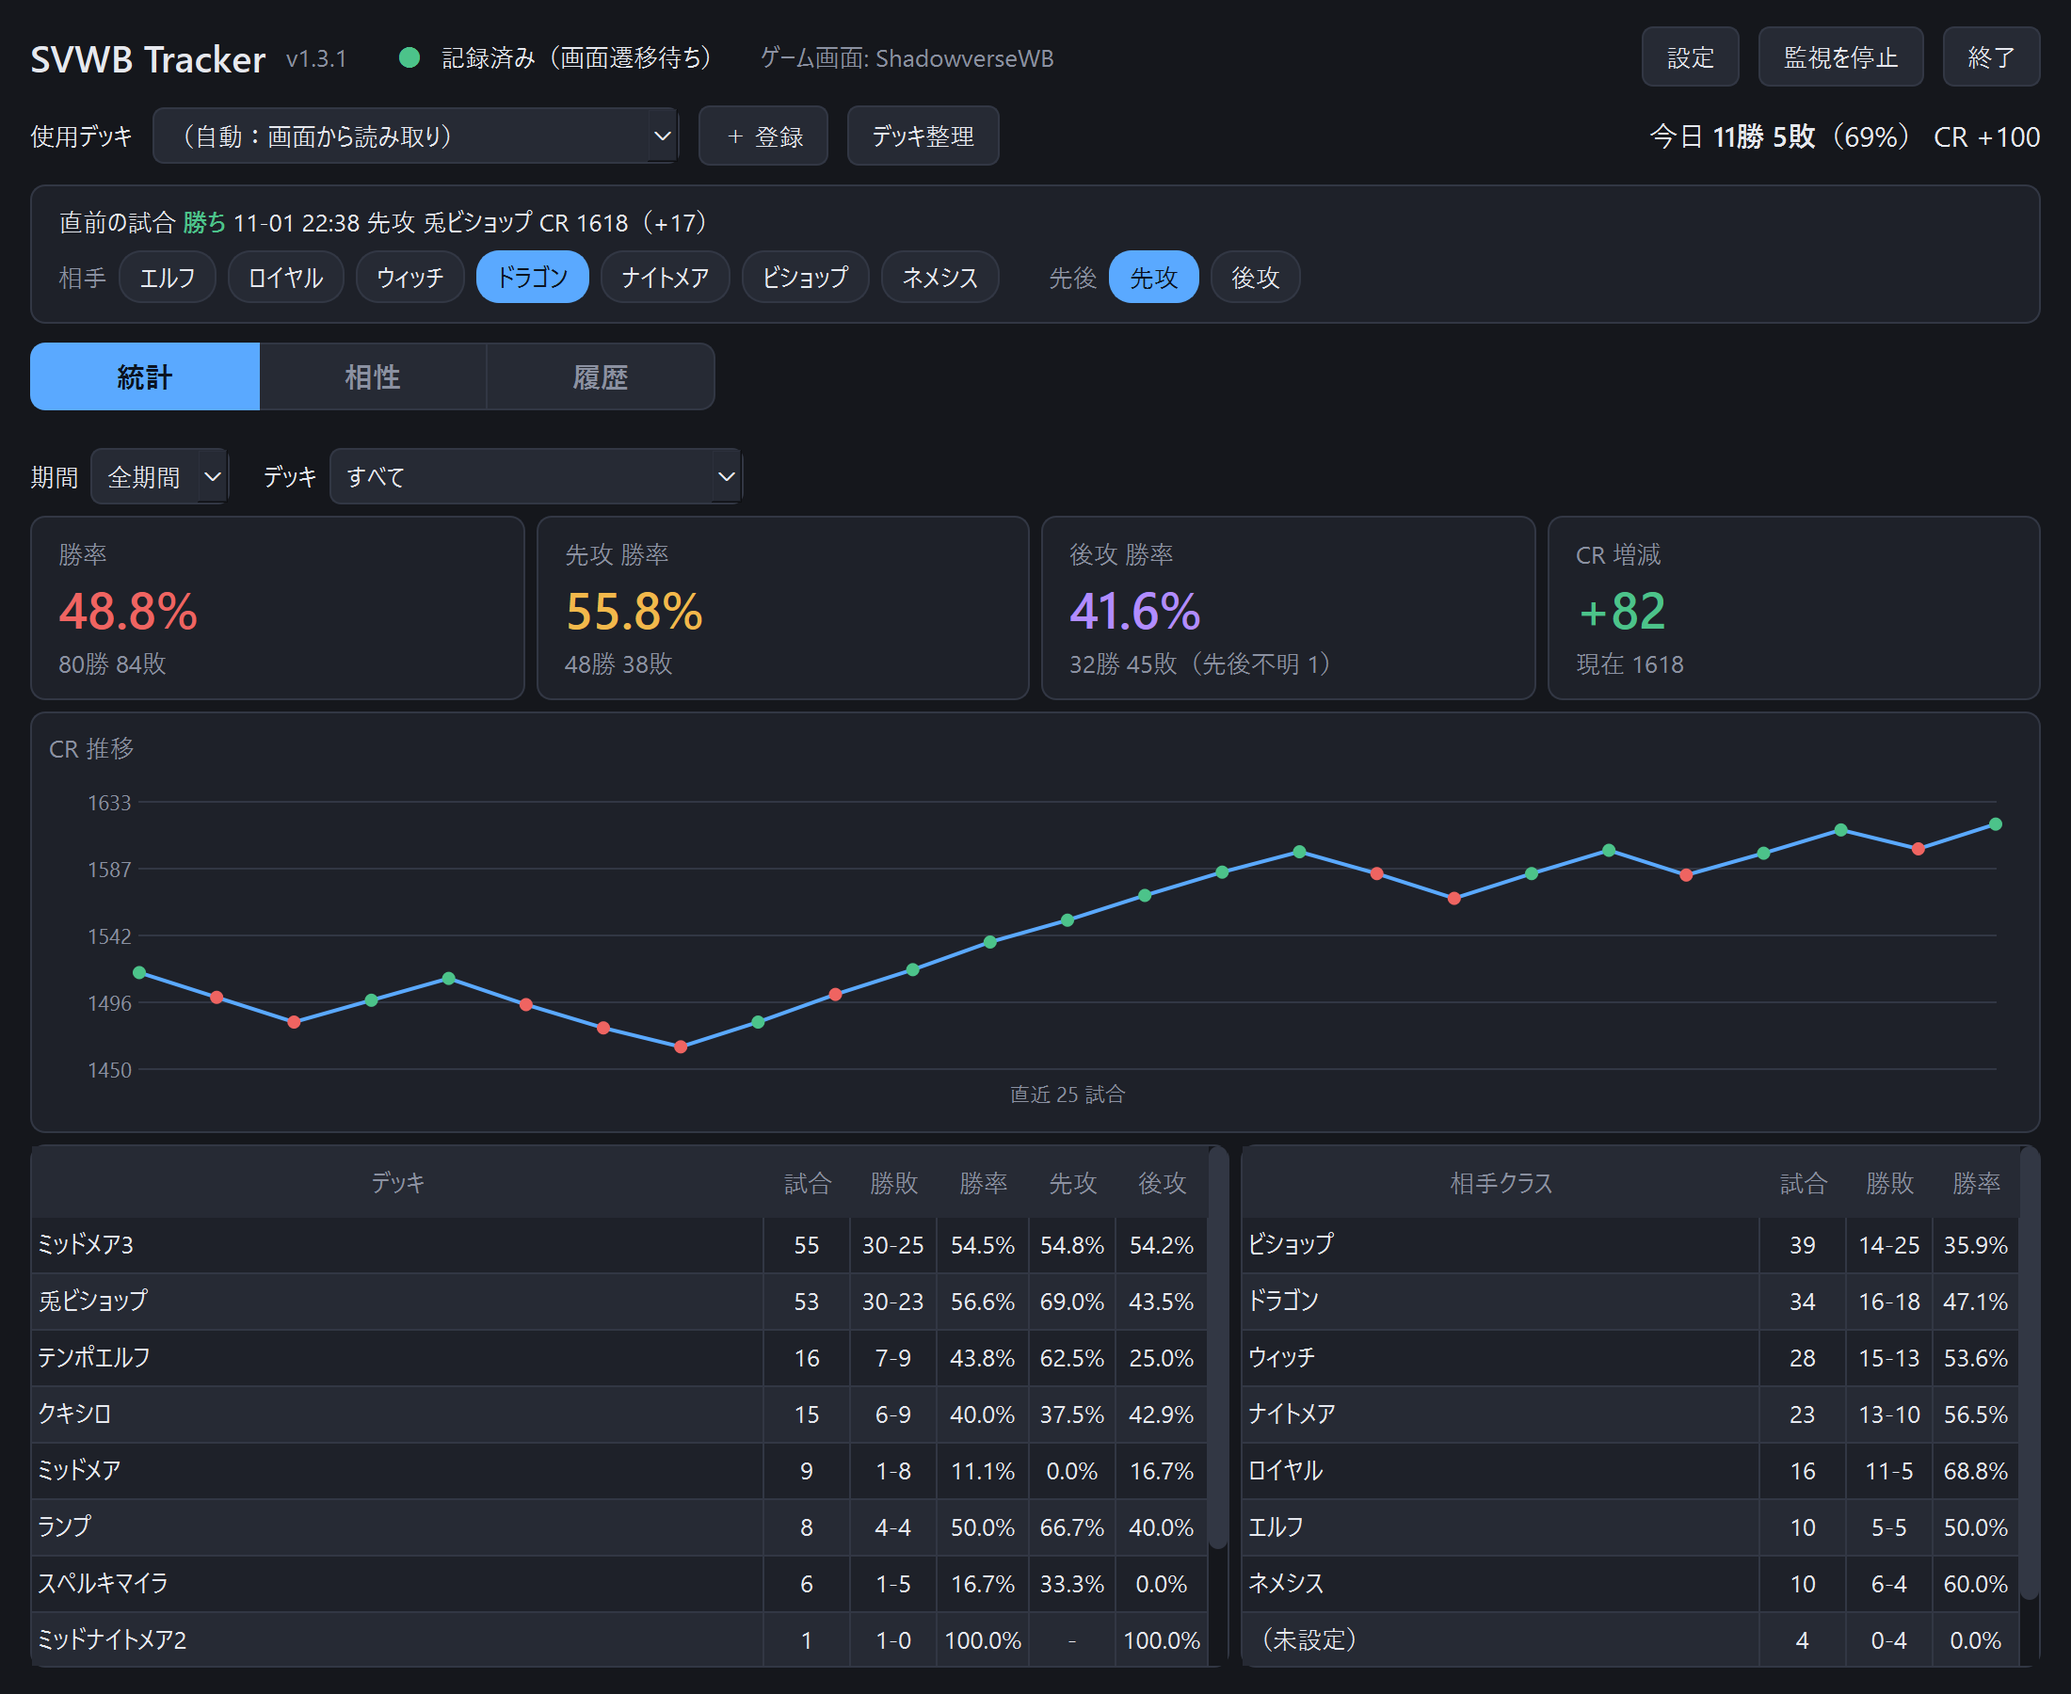
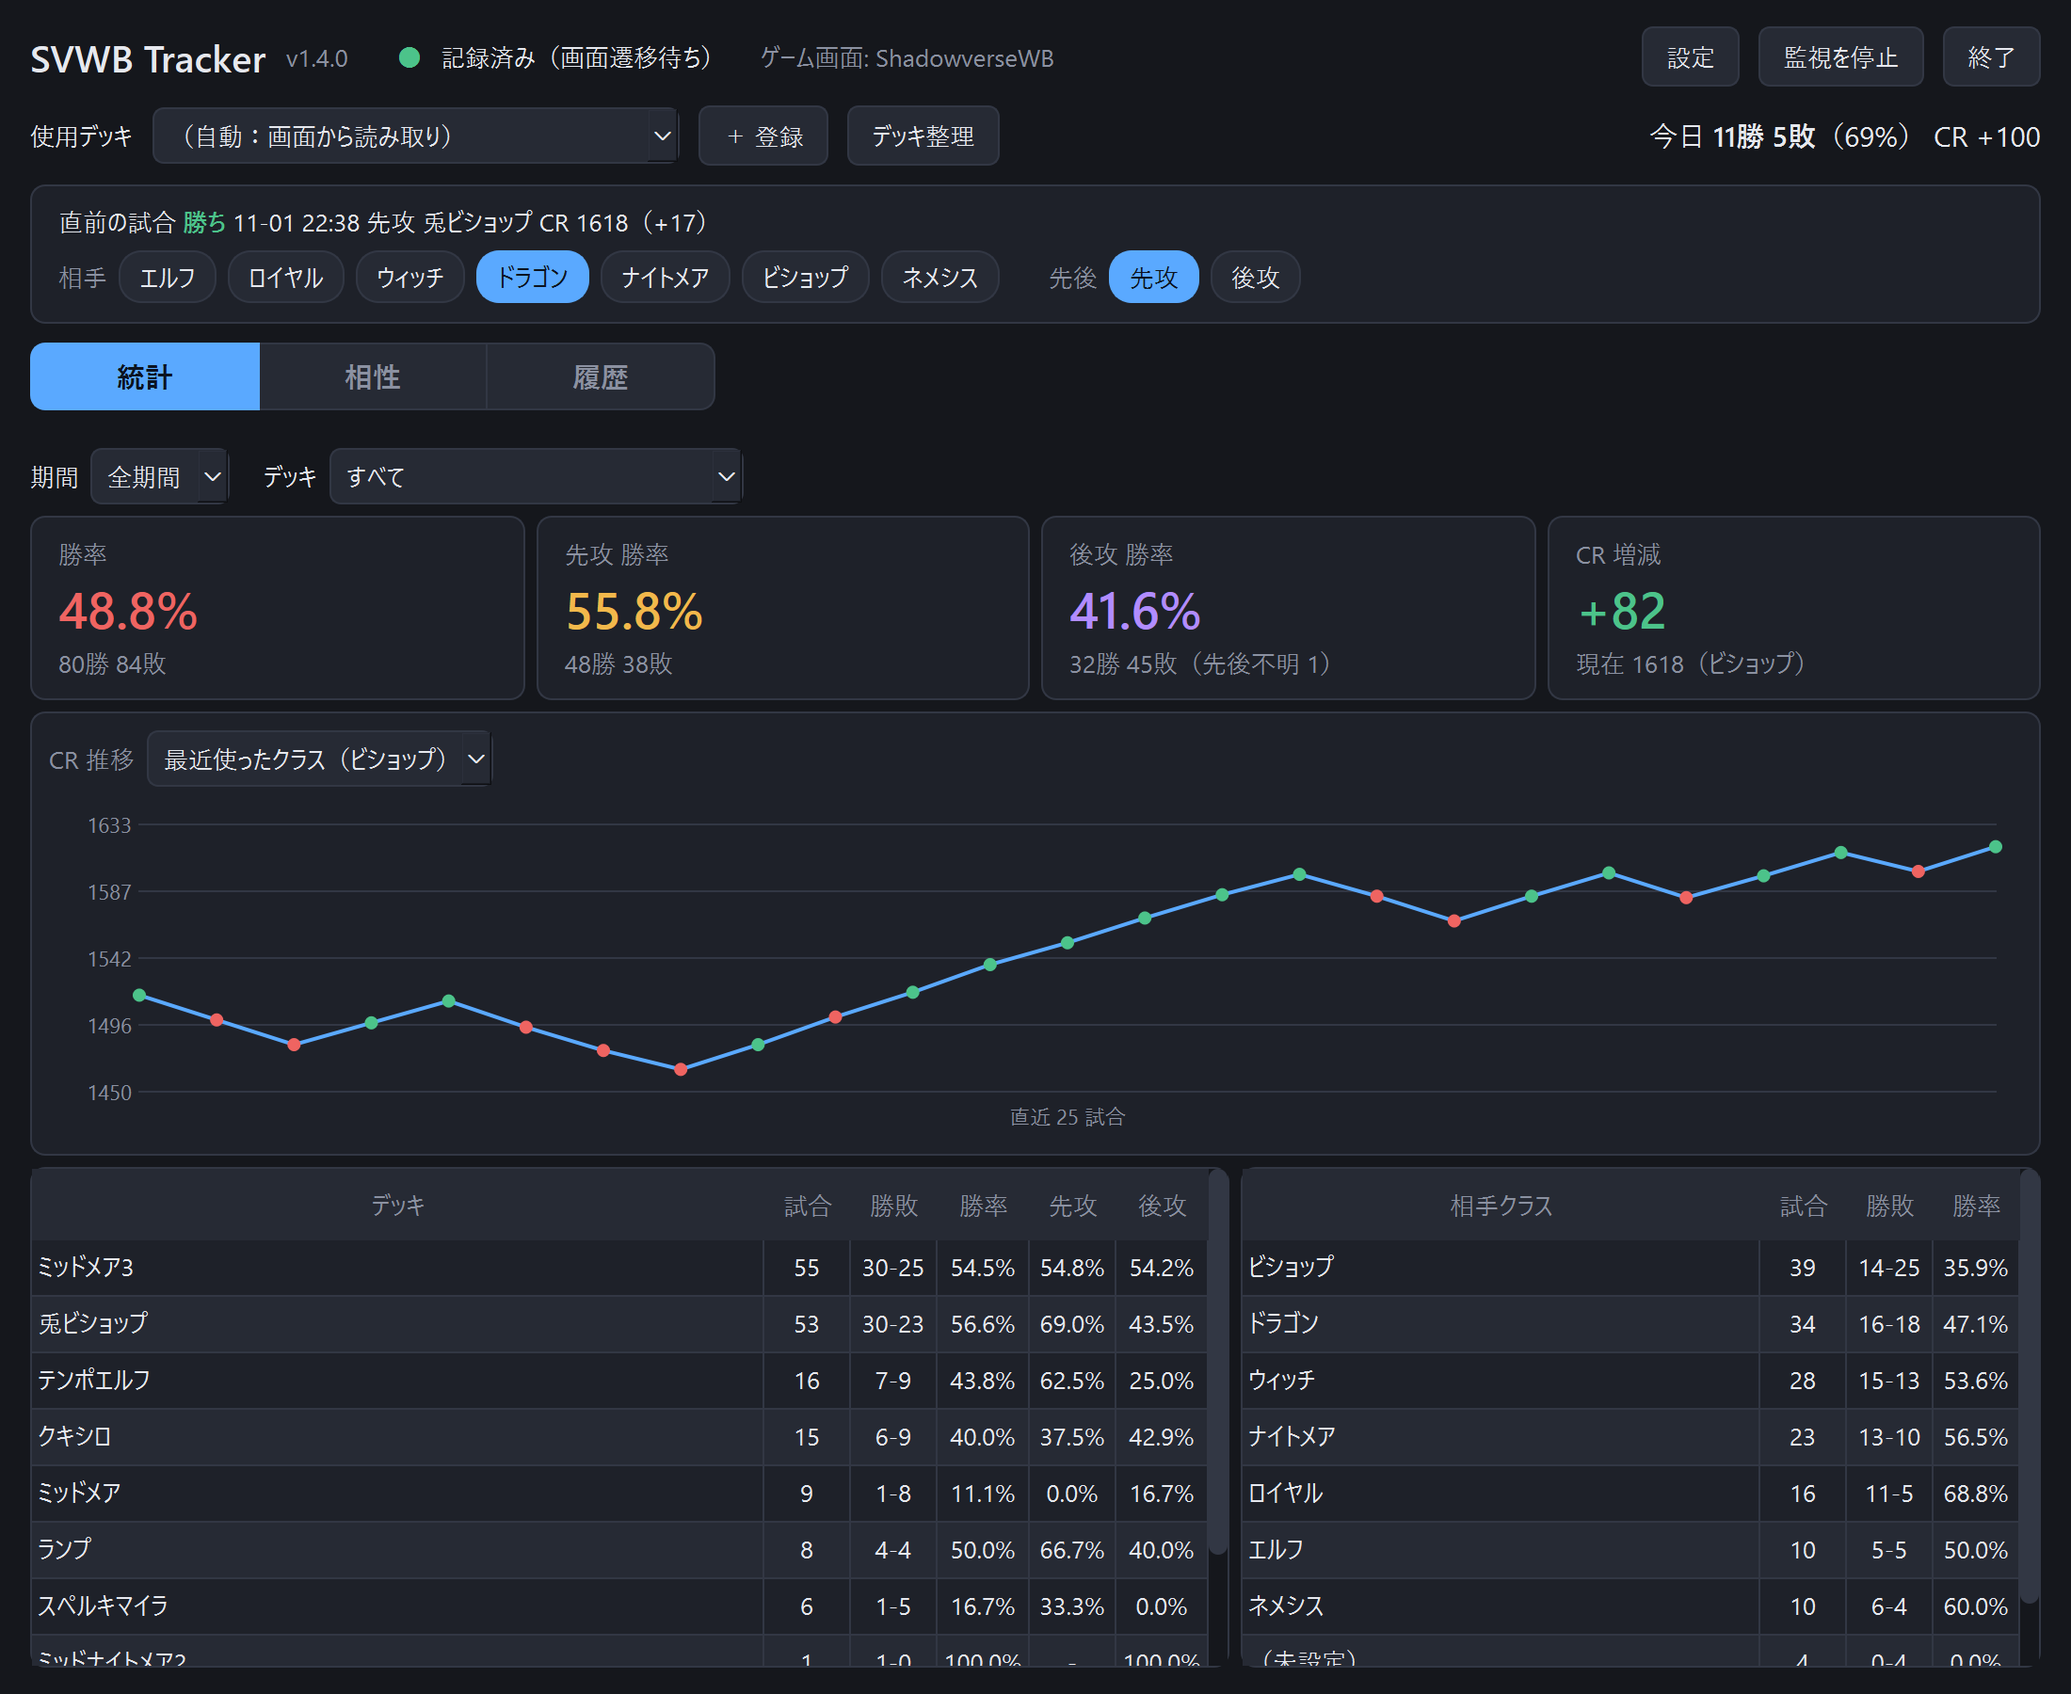
v1.4.0: CR chart per class, class assignment in deck dialog

diff --git a/svwb/gui/deck_dialog.py b/svwb/gui/deck_dialog.py
@@ -6,10 +6,12 @@ from PySide6.QtGui import QColor
 from PySide6.QtWidgets import (QAbstractItemView, QDialog, QHBoxLayout, QHeaderView, QInputDialog, QLabel, QMessageBox,
                                QPushButton, QTableWidget, QTableWidgetItem, QVBoxLayout)
 
+from ..db import deck_class
 from . import theme
 
 log = logging.getLogger(__name__)
-HEADERS = ["デッキ", "試合", "勝率", "最後に使った日", "状態"]
+HEADERS = ["デッキ", "クラス", "試合", "勝率", "最後に使った日", "状態"]
+CLASS_AUTO = "（名前から自動）"
 
 
 class DeckDialog(QDialog):
@@ -18,11 +20,12 @@ class DeckDialog(QDialog):
         self.db = db
         self.settings = settings
         self.setWindowTitle("デッキ整理")
-        self.resize(640, 520)
+        self.resize(720, 520)
         lay = QVBoxLayout(self)
 
         note = QLabel("隠したデッキは選択肢と読み取りの候補から外れます。戦績と統計には残ります。\n"
-                      "隠したデッキをまた使うと、自動で表示に戻ります。")
+                      "隠したデッキをまた使うと、自動で表示に戻ります。\n"
+                      "CR のグラフはクラスごとに出ます。クラスが「-」のデッキは「クラスを指定」で選んでください。")
         note.setObjectName("muted")
         lay.addWidget(note)
 
@@ -39,6 +42,8 @@ class DeckDialog(QDialog):
 
         bar = QHBoxLayout()
         rename = QPushButton("名前の変更・統合")
+        klass = QPushButton("クラスを指定")
+        klass.clicked.connect(self.set_class)
         hide = QPushButton("隠す")
         show = QPushButton("表示に戻す")
         close = QPushButton("閉じる")
@@ -46,7 +51,7 @@ class DeckDialog(QDialog):
         hide.clicked.connect(lambda: self._set_hidden(True))
         show.clicked.connect(lambda: self._set_hidden(False))
         close.clicked.connect(self.accept)
-        for b in (rename, hide, show):
+        for b in (rename, klass, hide, show):
             bar.addWidget(b)
         bar.addStretch()
         bar.addWidget(close)
@@ -58,7 +63,8 @@ class DeckDialog(QDialog):
         self.table.setRowCount(len(rows))
         for i, d in enumerate(rows):
             hidden = d["deck"] in self.settings.hidden_decks
-            cells = [d["deck"], str(d["n"]), f"{d['wins'] / d['n'] * 100:.1f}%", d["last"][:10], "非表示" if hidden else ""]
+            cells = [d["deck"], deck_class(d["deck"], self.settings.deck_classes) or "-", str(d["n"]),
+                     f"{d['wins'] / d['n'] * 100:.1f}%", d["last"][:10], "非表示" if hidden else ""]
             for j, text in enumerate(cells):
                 it = QTableWidgetItem(text)
                 if j:
@@ -77,6 +83,24 @@ class DeckDialog(QDialog):
             return
         current = [d for d in self.settings.hidden_decks if d not in names]
         self.settings.hidden_decks = current + names if hidden else current
+        self.settings.save()
+        self.refresh()
+
+    def set_class(self):
+        names = self._selected()
+        if not names:
+            QMessageBox.information(self, "デッキ整理", "クラスを指定するデッキを選んでください（複数選べます）。")
+            return
+        choices = [CLASS_AUTO] + theme.CLASSES
+        cur = self.settings.deck_classes.get(names[0], CLASS_AUTO)
+        c, ok = QInputDialog.getItem(self, "クラスを指定", "、".join(names) + " のクラス",
+                                     choices, choices.index(cur) if cur in choices else 0, False)
+        if not ok:
+            return
+        for n in names:
+            self.settings.deck_classes.pop(n, None)
+            if c != CLASS_AUTO:
+                self.settings.deck_classes[n] = c
         self.settings.save()
         self.refresh()
 
@@ -105,6 +129,9 @@ class DeckDialog(QDialog):
         s = self.settings
         s.deck_names = list(dict.fromkeys(new if d in targets else d for d in s.deck_names))
         s.hidden_decks = [d for d in s.hidden_decks if d not in targets]
+        classes = [s.deck_classes.pop(d) for d in targets if d in s.deck_classes]
+        if classes:  # 指定したクラスは新しい名前に引き継ぐ（新しい名前に指定があればそちら）
+            s.deck_classes.setdefault(new, classes[0])
         if s.deck_override in targets:
             s.deck_override = new
         s.save()

diff --git a/svwb/gui/stats.py b/svwb/gui/stats.py
@@ -6,7 +6,7 @@ from PySide6.QtCore import Qt
 from PySide6.QtWidgets import (QAbstractItemView, QComboBox, QGridLayout, QHBoxLayout, QHeaderView, QLabel,
                              QTableWidget, QTableWidgetItem, QVBoxLayout, QWidget)
 
-from ..db import summarize
+from ..db import cr_groups, summarize
 from . import theme
 from .widgets import CrChart, StatCard, fmt_record, panel
 
@@ -28,10 +28,11 @@ def rate_text(wins, total):
 
 
 class StatsTab(QWidget):
-    def __init__(self, db, hidden_decks=lambda: ()):
+    def __init__(self, db, hidden_decks=lambda: (), deck_classes=lambda: {}):
         super().__init__()
         self.db = db
         self.hidden_decks = hidden_decks
+        self.deck_classes = deck_classes
         lay = QVBoxLayout(self)
         lay.setContentsMargins(0, 12, 0, 0)
 
@@ -64,9 +65,18 @@ class StatsTab(QWidget):
 
         chart_panel = panel()
         cp = QVBoxLayout(chart_panel)
+        head = QHBoxLayout()
         t = QLabel("CR 推移")
         t.setObjectName("muted")
-        cp.addWidget(t)
+        self.cr_group = QComboBox()
+        self.cr_group.setMinimumWidth(180)
+        self.cr_group.setToolTip("CR はクラスごとに別なので、グラフはクラスごとに出します。\n"
+                                 "クラスが分からないデッキは「デッキ整理」で指定できます")
+        self.cr_group.currentIndexChanged.connect(self.refresh)
+        head.addWidget(t)
+        head.addWidget(self.cr_group)
+        head.addStretch()
+        cp.addLayout(head)
         self.chart = CrChart()
         cp.addWidget(self.chart)
         lay.addWidget(chart_panel, 2)
@@ -102,6 +112,21 @@ class StatsTab(QWidget):
         self.deck.setCurrentIndex(max(i, 0))
         self.deck.blockSignals(False)
 
+    def _reload_groups(self, names):
+        """グラフに出すクラスの選択肢を作り直して、出すものの名前を返す。選んでいなければ最近使ったクラス"""
+        cur = self.cr_group.currentData()
+        self.cr_group.blockSignals(True)
+        self.cr_group.clear()
+        self.cr_group.addItem(f"最近使ったクラス（{names[0]}）" if names else "最近使ったクラス", None)
+        for n in names:
+            self.cr_group.addItem(n, n)
+        if cur and cur not in names:  # 期間を変えて記録がなくなっても、選んだクラスのままにする
+            self.cr_group.addItem(cur, cur)
+        self.cr_group.setCurrentIndex(max(self.cr_group.findData(cur), 0) if cur else 0)
+        self.cr_group.blockSignals(False)
+        self.cr_group.show()
+        return cur or (names[0] if names else "")
+
     def refresh(self):
         rows = self.db.matches(deck=self.deck.currentData(), since=period_start(PERIODS[self.period.currentIndex()][1]))
         s = summarize(rows)
@@ -113,12 +138,18 @@ class StatsTab(QWidget):
         if unknown:
             self.c_second.sub.setText(self.c_second.sub.text() + f"（先後不明 {unknown}）")
         net = s["cr_net"]
-        crs = [r["cr"] for r in rows if r["cr"] is not None]
-        self.c_cr.set("-" if net is None else f"{net:+d}", f"現在 {crs[0]}" if crs else "",
+        # グラフと「現在」はクラスごと（デッキで絞り込んでいるときはそのデッキ）
+        if self.deck.currentData():
+            self.cr_group.hide()
+            name, cr_rows = "", [r for r in rows if r["cr"] is not None]
+        else:
+            groups = cr_groups(rows, self.deck_classes())
+            name = self._reload_groups(list(groups))
+            cr_rows = groups.get(name, [])
+        now = f"現在 {cr_rows[0]['cr']}" + (f"（{name}）" if name else "") if cr_rows else ""
+        self.c_cr.set("-" if net is None else f"{net:+d}", now,
                       None if net is None else (theme.WIN if net >= 0 else theme.LOSS))
-
-        pts = [(r["cr"], r["result"]) for r in reversed(rows) if r["cr"] is not None]
-        self.chart.set_points(pts[-200:])
+        self.chart.set_points([(r["cr"], r["result"]) for r in reversed(cr_rows)][-200:])
 
         self._fill(self.by_deck, self._group(rows, "deck"), with_turn=True)
         self._fill(self.by_opp, self._group(rows, "opponent"), with_turn=False)

diff --git a/svwb/db.py b/svwb/db.py
@@ -5,6 +5,7 @@ import sqlite3
 from datetime import datetime
 
 from .config import DB_PATH
+from .screens import CLASSES
 
 COLUMNS = ["id", "played_at", "result", "turn_order", "deck", "opponent", "cr", "cr_change",
            "mp_gained", "rank", "format", "notes", "screenshot", "source"]
@@ -192,6 +193,29 @@ def matchup(rows):
                 if opp:
                     w, n = out.setdefault(deck, {}).get(opp, (0, 0))
                     out[deck][opp] = (w + win, n + 1)
+    return out
+
+
+# デッキ名に入っていればクラスが分かる言葉
+_CLASS_WORDS = [(c, c) for c in CLASSES] + [("メア", "ナイトメア"), ("ビショ", "ビショップ"), ("ネメ", "ネメシス")]
+
+
+def deck_class(deck, assigned=None):
+    """デッキのクラス。デッキ整理で指定したものが優先、なければ名前から。分からなければ None"""
+    if not deck:
+        return None
+    if (assigned or {}).get(deck):
+        return assigned[deck]
+    return next((c for word, c in _CLASS_WORDS if word in deck), None)
+
+
+def cr_groups(rows, assigned=None):
+    """CR が続いているもの同士に分ける。CR はクラスごとに別なので、クラスが同じデッキは1つにまとめ、
+    クラスの分からないデッキはデッキだけで1つにする。rows（新しい順）→ {名前: rows}、最近使った順"""
+    out = {}
+    for r in rows:
+        if r["cr"] is not None:
+            out.setdefault(deck_class(r["deck"], assigned) or r["deck"] or "（未設定）", []).append(r)
     return out
 
 

diff --git a/tests/test_tracker.py b/tests/test_tracker.py
@@ -311,6 +311,19 @@ def test_matchup_counts_by_deck_and_opponent():
     assert "エルフ" not in t["B"]
 
 
+def test_cr_chart_split_by_class():
+    from svwb.db import cr_groups, deck_class
+    assert deck_class("純融合ネメシス") == "ネメシス" and deck_class("ミッドメア3") == "ナイトメア"
+    assert deck_class("ランプ") is None and deck_class(None) is None
+    assert deck_class("ランプ", {"ランプ": "ドラゴン"}) == "ドラゴン"
+    rows = [{"deck": d, "cr": c} for d, c in [("ランプ", 1490), ("スペルキマイラ", 1328), ("DDエルフ", None),
+                                              ("純スペルウィッチ", 1342), (None, 1500)]]
+    g = cr_groups(rows, {"スペルキマイラ": "ウィッチ"})
+    assert list(g) == ["ランプ", "ウィッチ", "（未設定）"]  # CR の無い試合は数えない
+    assert [r["cr"] for r in g["ウィッチ"]] == [1328, 1342]
+    assert list(cr_groups(rows)) == ["ランプ", "スペルキマイラ", "ウィッチ", "（未設定）"]
+
+
 def test_obs_text():
     from svwb import obs
     rows = [dict(result="win", deck="X", cr=1520, cr_change=16), dict(result="win", deck="X", cr=1504, cr_change=15),

diff --git a/svwb/config.py b/svwb/config.py
@@ -38,6 +38,7 @@ class Settings:
     deck_override: str = ""            # 空なら OCR で自動取得
     deck_names: list = field(default_factory=list)  # 手動で登録したデッキ名（OCR 結果をこれに寄せる）
     hidden_decks: list = field(default_factory=list)  # デッキ整理で隠したデッキ（選択肢と OCR の候補から外す）
+    deck_classes: dict = field(default_factory=dict)  # デッキ名 → クラス（名前から分からないデッキ用）
     start_minimized: bool = False
     obs_enabled: bool = False          # 今日の戦績を data/obs/today.txt に書き出す
     obs_template: str = "{wins}勝 {losses}敗 勝率{rate}%"

diff --git a/svwb/gui/main_window.py b/svwb/gui/main_window.py
@@ -157,7 +157,7 @@ class MainWindow(QMainWindow):
         lay.addWidget(last)
 
         tabs = QTabWidget()
-        self.stats = StatsTab(db, lambda: self.settings.hidden_decks)
+        self.stats = StatsTab(db, lambda: self.settings.hidden_decks, lambda: self.settings.deck_classes)
         self.history = HistoryTab(db, self.reload, self.known_decks)
         self.matchup = MatchupTab(db)
         tabs.addTab(self.stats, "統計")

diff --git a/svwb/__init__.py b/svwb/__init__.py
@@ -1,1 +1,1 @@
-__version__ = "1.3.2"
+__version__ = "1.4.0"
